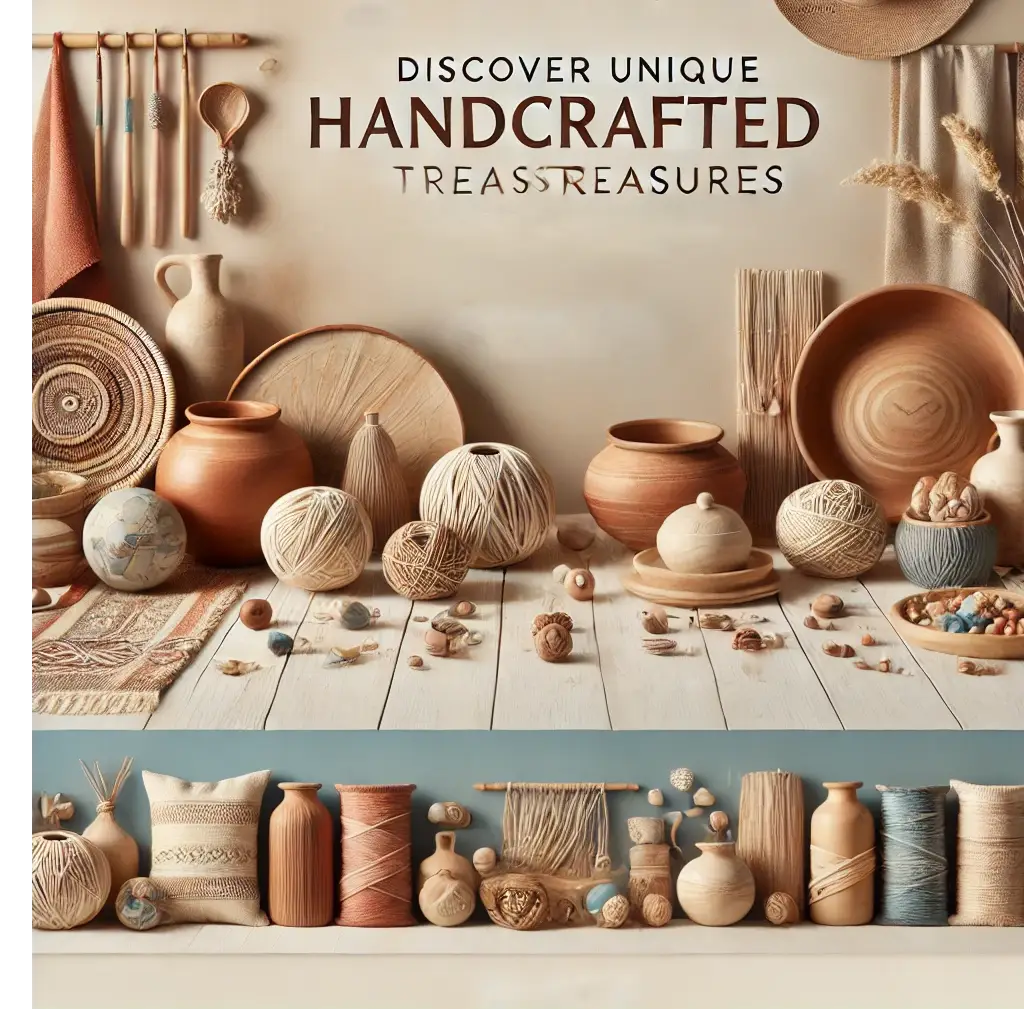
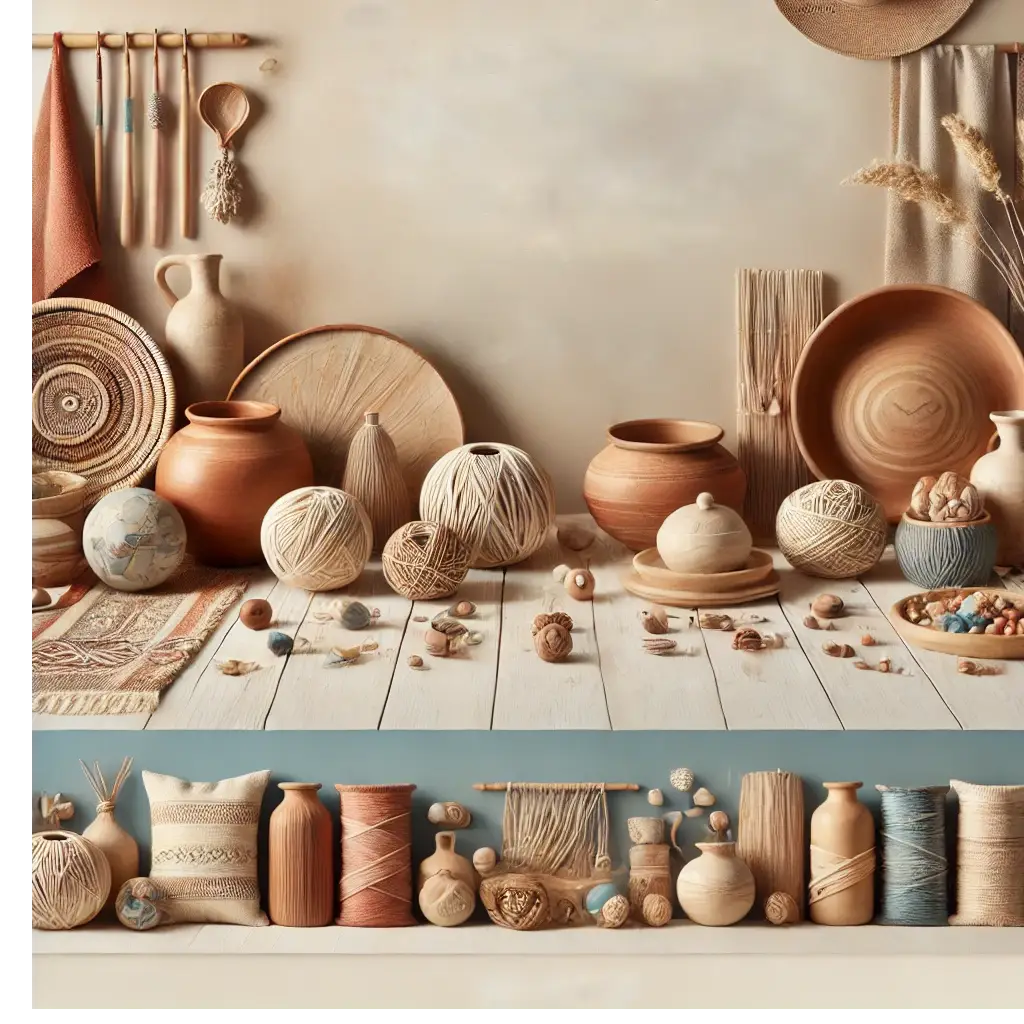
create file componet a public with images hero and component css

Changed region(s): [[0.2812, 0.0312, 0.8125, 0.1875], [0.4688, 0.3125, 0.5, 0.3438]]

diff --git a/src/app/page.tsx b/src/app/page.tsx
@@ -1,101 +1,12 @@
-import Image from "next/image";
+import React from 'react';
+import HeroSection from '@/components/HeroSection';
 
 export default function Home() {
   return (
-    <div className="grid grid-rows-[20px_1fr_20px] items-center justify-items-center min-h-screen p-8 pb-20 gap-16 sm:p-20 font-[family-name:var(--font-geist-sans)]">
-      <main className="flex flex-col gap-8 row-start-2 items-center sm:items-start">
-        <Image
-          className="dark:invert"
-          src="https://nextjs.org/icons/next.svg"
-          alt="Next.js logo"
-          width={180}
-          height={38}
-          priority
-        />
-        <ol className="list-inside list-decimal text-sm text-center sm:text-left font-[family-name:var(--font-geist-mono)]">
-          <li className="mb-2">
-            Get started by editing{" "}
-            <code className="bg-black/[.05] dark:bg-white/[.06] px-1 py-0.5 rounded font-semibold">
-              src/app/page.tsx
-            </code>
-            .
-          </li>
-          <li>Save and see your changes instantly.</li>
-        </ol>
-
-        <div className="flex gap-4 items-center flex-col sm:flex-row">
-          <a
-            className="rounded-full border border-solid border-transparent transition-colors flex items-center justify-center bg-foreground text-background gap-2 hover:bg-[#383838] dark:hover:bg-[#ccc] text-sm sm:text-base h-10 sm:h-12 px-4 sm:px-5"
-            href="https://vercel.com/new?utm_source=create-next-app&utm_medium=appdir-template-tw&utm_campaign=create-next-app"
-            target="_blank"
-            rel="noopener noreferrer"
-          >
-            <Image
-              className="dark:invert"
-              src="https://nextjs.org/icons/vercel.svg"
-              alt="Vercel logomark"
-              width={20}
-              height={20}
-            />
-            Deploy now
-          </a>
-          <a
-            className="rounded-full border border-solid border-black/[.08] dark:border-white/[.145] transition-colors flex items-center justify-center hover:bg-[#f2f2f2] dark:hover:bg-[#1a1a1a] hover:border-transparent text-sm sm:text-base h-10 sm:h-12 px-4 sm:px-5 sm:min-w-44"
-            href="https://nextjs.org/docs?utm_source=create-next-app&utm_medium=appdir-template-tw&utm_campaign=create-next-app"
-            target="_blank"
-            rel="noopener noreferrer"
-          >
-            Read our docs
-          </a>
-        </div>
-      </main>
-      <footer className="row-start-3 flex gap-6 flex-wrap items-center justify-center">
-        <a
-          className="flex items-center gap-2 hover:underline hover:underline-offset-4"
-          href="https://nextjs.org/learn?utm_source=create-next-app&utm_medium=appdir-template-tw&utm_campaign=create-next-app"
-          target="_blank"
-          rel="noopener noreferrer"
-        >
-          <Image
-            aria-hidden
-            src="https://nextjs.org/icons/file.svg"
-            alt="File icon"
-            width={16}
-            height={16}
-          />
-          Learn
-        </a>
-        <a
-          className="flex items-center gap-2 hover:underline hover:underline-offset-4"
-          href="https://vercel.com/templates?framework=next.js&utm_source=create-next-app&utm_medium=appdir-template-tw&utm_campaign=create-next-app"
-          target="_blank"
-          rel="noopener noreferrer"
-        >
-          <Image
-            aria-hidden
-            src="https://nextjs.org/icons/window.svg"
-            alt="Window icon"
-            width={16}
-            height={16}
-          />
-          Examples
-        </a>
-        <a
-          className="flex items-center gap-2 hover:underline hover:underline-offset-4"
-          href="https://nextjs.org?utm_source=create-next-app&utm_medium=appdir-template-tw&utm_campaign=create-next-app"
-          target="_blank"
-          rel="noopener noreferrer"
-        >
-          <Image
-            aria-hidden
-            src="https://nextjs.org/icons/globe.svg"
-            alt="Globe icon"
-            width={16}
-            height={16}
-          />
-          Go to nextjs.org →
-        </a>
-      </footer>
-    </div>
+    <>
+    <main>
+      <HeroSection />
+    </main>
+    </>
   );
 }

diff --git a/src/components/HeroSection.css b/src/components/HeroSection.css
@@ -1,0 +1,82 @@
+/* HeroSection.css */
+
+html, body {
+    margin: 0; /* Remove margins from HTML and BODY */
+    padding: 0; /* Remove padding from HTML and BODY */
+    width: 100%; /* Ensure the body takes up 100% width */
+    height: 100%; /* Ensure the body takes up 100% height */
+}
+
+.hero-section {
+    position: relative;
+    display: flex;
+    flex-direction: column;
+    align-items: center;
+    justify-content: center;
+    padding: 4rem 0; /* Adjust padding if necessary */
+}
+
+.background {
+    position: absolute;
+    inset: 0; /* Ensure it occupies the entire space */
+    z-index: -10; /* Behind other content */
+    opacity: 0.7;
+}
+
+.content {
+    position: relative;
+    z-index: 10; /* On top of the background */
+    text-align: center;
+    margin-bottom: 2rem; /* Bottom spacing */
+}
+
+.hero-title {
+    font-size: 3rem; /* Text size */
+    font-weight: bold; /* Bold text */
+    color: white; /* Text color */
+    margin-bottom: 1rem; /* Bottom spacing */
+}
+
+.hero-description {
+    font-size: 1.125rem; /* Text size */
+    color: white; /* Text color */
+    margin-bottom: 2rem; /* Bottom spacing */
+}
+
+.image-container {
+    position: relative;
+    z-index: 10; /* On top of the background */
+    display: flex; /* Flexbox for image alignment */
+    gap: 1rem; /* Spacing between images */
+}
+
+.image-item {
+    position: relative;
+    width: 15rem; /* Image size */
+    height: 15rem; /* Image size */
+    border-radius: 0.5rem; /* Rounded corners */
+}
+
+.shop-button {
+    margin-top: 2rem; /* Top spacing */
+    padding: 0.75rem 1.5rem; /* Internal spacing */
+    background-color: #264653; /* Primary color */
+    color: white; /* Text color */
+    border: none; /* No border */
+    border-radius: 0.5rem; /* Rounded corners */
+    box-shadow: 0 4px 6px rgba(0, 0, 0, 0.1); /* Shadow effect */
+    transition: background-color 0.3s; /* For hover effect */
+    cursor: pointer; /* Changes cursor on hover */
+}
+
+.shop-button:hover {
+    background-color: #2a9d8f; /* Color on hover */
+}
+
+.shop-button:active {
+    background-color: #e9c46a; /* Color when clicked */
+}
+
+.shop-button:focus {
+    outline: none; /* Remove focus outline */
+}

diff --git a/src/components/HeroSection.tsx b/src/components/HeroSection.tsx
@@ -1,0 +1,69 @@
+import React from 'react';
+import Image from 'next/image';
+import Hero from '/src/public/images/HeroImage.webp';
+import Handcrafted from '/src/public/images/HandcraftedPottery.webp';
+import Handmadetex from '/src/public/images/Handmade Textile.webp'
+import Woven from '/src/public/images/WovenBasket.webp'
+import './HeroSection.css'; // Ensure you import the CSS file
+
+const HeroSection = () => {
+  return (
+    <div className="hero-section">
+      {/* Background image */}
+      <div className="background">
+        <Image
+          src={Hero}
+          alt="Background Hero"
+          layout="fill"
+          objectFit="cover"
+          objectPosition="center"
+          
+        />
+      </div>
+
+      {/* Content: Title and Text */}
+      <div className="content">
+        <h1 className="hero-title">Discover Unique Handcrafted Treasures</h1>
+        <p className="hero-description">Find the best artisanal pieces made with love and passion.</p>
+      </div>
+
+      {/* Image Container */}
+      <div className="image-container">
+        <div className="image-item">
+          <Image
+            src={Handcrafted}
+            alt="Handcrafted Pottery"
+            layout="fill"
+            objectFit="cover"
+            className="rounded-lg"
+          />
+        </div>
+        <div className="image-item">
+          <Image
+            src={Handmadetex}
+            alt="Handmade Textile"
+            layout="fill"
+            objectFit="cover"
+            className="rounded-lg"
+          />
+        </div>
+        <div className="image-item">
+          <Image
+            src={Woven}
+            alt="Woven Basket"
+            layout="fill"
+            objectFit="cover"
+            className="rounded-lg"
+          />
+        </div>
+      </div>
+
+      {/* Button */}
+      <button className="shop-button">
+        Shop Now
+      </button>
+    </div>
+  );
+};
+
+export default HeroSection;

diff --git a/src/app/globals.css b/src/app/globals.css
@@ -1,3 +1,5 @@
+@import url('https://fonts.googleapis.com/css2?family=Raleway:wght@400;700&display=swap');
+
 @tailwind base;
 @tailwind components;
 @tailwind utilities;
